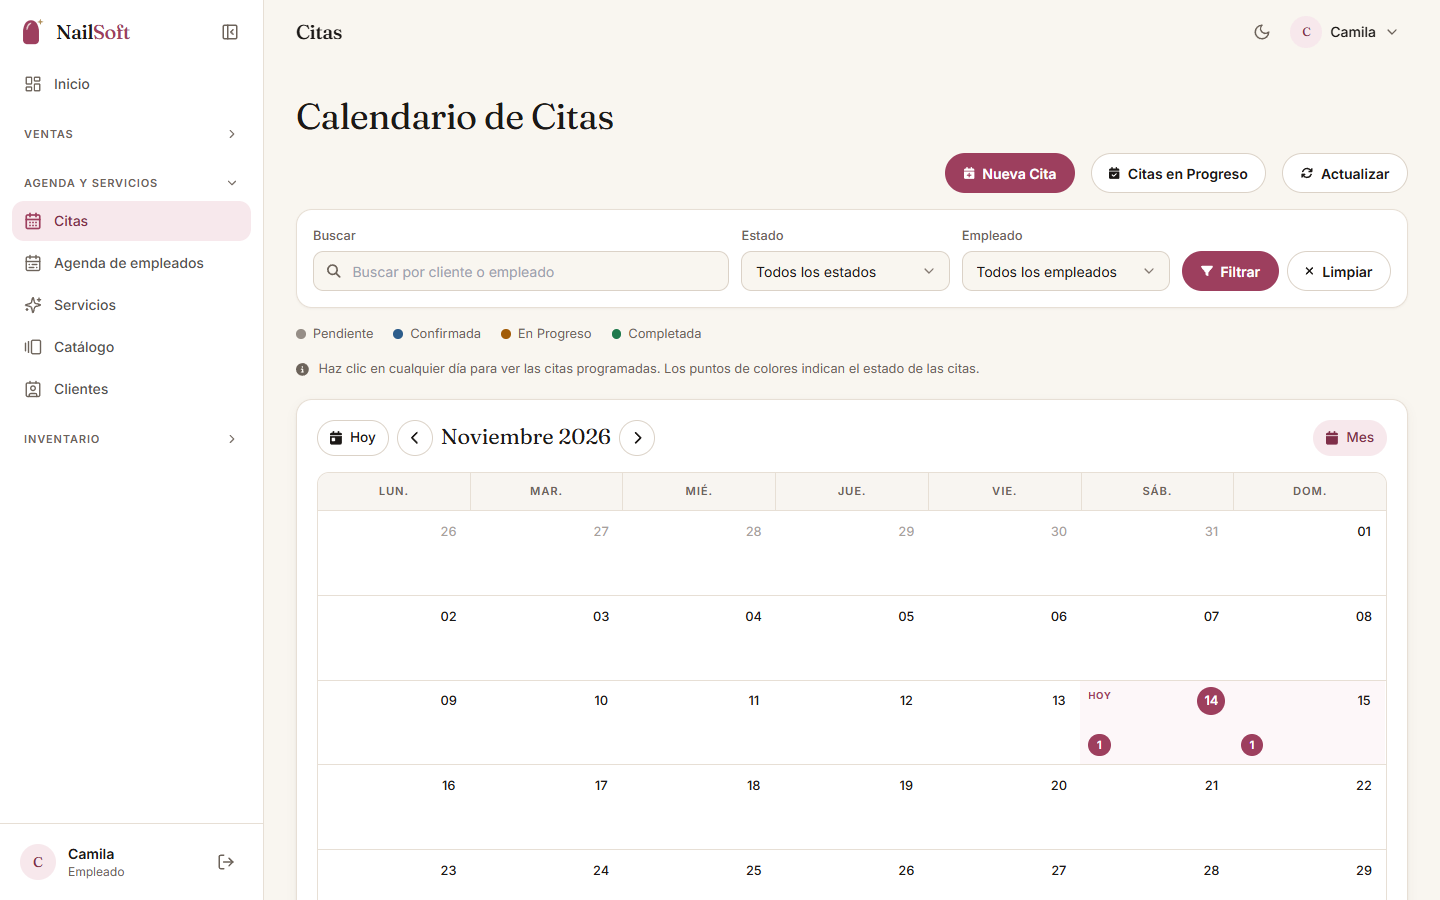
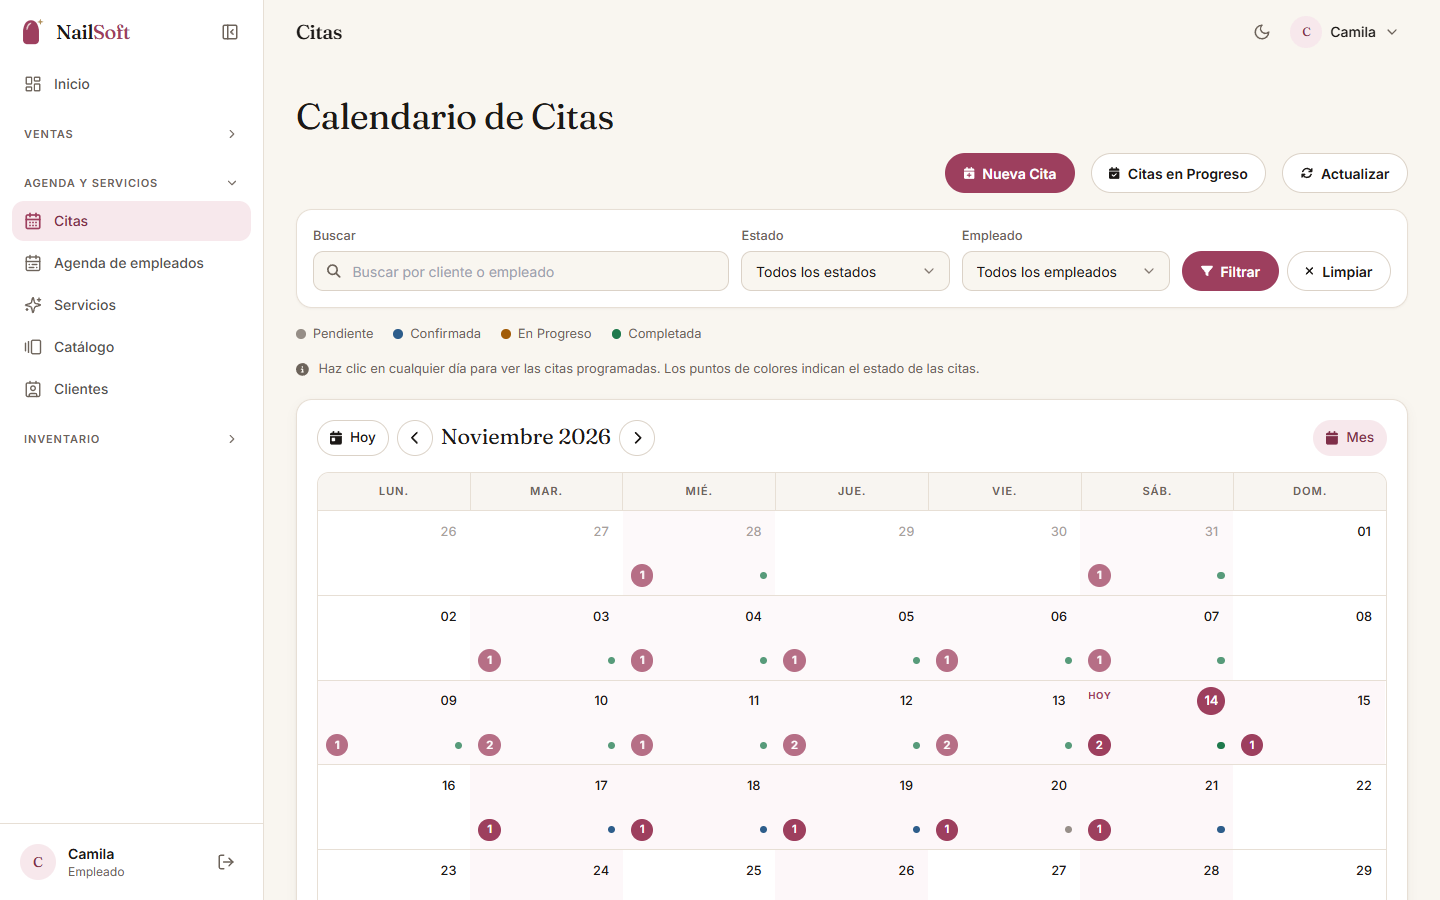
Web: Lighthouse en 100 de accesibilidad y SEO, y capturas con datos
- robots.txt real (Firebase devolvía el HTML de la página).
- Más contraste en los textos del pie de página.
- Los números decorativos de los pasos pasan a CSS (::before).
- README: resultados de Lighthouse y capturas del panel y del
  calendario con datos de demostración.

diff --git a/Frontend/src/components/Footer/Footer.jsx b/Frontend/src/components/Footer/Footer.jsx
@@ -88,7 +88,7 @@ const Footer = () => {
           </div>
 
           <nav aria-label="Explora">
-            <p className="text-xs font-semibold uppercase tracking-[0.14em] text-[#F3EEE8]/45">Explora</p>
+            <p className="text-xs font-semibold uppercase tracking-[0.14em] text-[#F3EEE8]/60">Explora</p>
             <ul className="mt-4 flex list-none flex-col gap-2.5 p-0">
               <EnlacePie to="/">Inicio</EnlacePie>
               {esCliente ? (
@@ -111,7 +111,7 @@ const Footer = () => {
           </nav>
 
           <div>
-            <p className="text-xs font-semibold uppercase tracking-[0.14em] text-[#F3EEE8]/45">Contacto</p>
+            <p className="text-xs font-semibold uppercase tracking-[0.14em] text-[#F3EEE8]/60">Contacto</p>
             <ul className="mt-4 flex list-none flex-col gap-2.5 p-0">
               <EnlaceExterno href={WHATSAPP_URL} icono={FaWhatsapp}>
                 WhatsApp
@@ -123,7 +123,7 @@ const Footer = () => {
           </div>
         </div>
 
-        <div className="flex flex-col gap-2 border-t border-white/10 py-6 text-xs text-[#F3EEE8]/45 sm:flex-row sm:justify-between">
+        <div className="flex flex-col gap-2 border-t border-white/10 py-6 text-xs text-[#F3EEE8]/60 sm:flex-row sm:justify-between">
           <p className="m-0">© 2025–{new Date().getFullYear()} NailSoft · Proyecto de portafolio, datos ficticios</p>
           <p className="m-0">
             Desarrollado por{" "}

diff --git a/Frontend/src/components/LandingI/Index.jsx b/Frontend/src/components/LandingI/Index.jsx
@@ -471,9 +471,12 @@ const Index = () => {
                         <span className="flex size-12 items-center justify-center rounded-full bg-primary text-primary-foreground shadow-soft">
                           <Icono className="size-5" aria-hidden="true" />
                         </span>
-                        <span className="font-display text-5xl text-muted-foreground/25" aria-hidden="true">
-                          0{i + 1}
-                        </span>
+                        {/* Número decorativo: va en CSS (::before) para que no cuente como texto del contenido */}
+                        <span
+                          data-numero={`0${i + 1}`}
+                          className="font-display text-5xl text-muted-foreground/25 before:content-[attr(data-numero)]"
+                          aria-hidden="true"
+                        />
                       </div>
                       <div>
                         <h3 className="font-display text-2xl">{paso.titulo}</h3>

diff --git a/README.md b/README.md
@@ -64,6 +64,7 @@ Entra en [nailsoft-spa.web.app](https://nailsoft-spa.web.app) con estas cuentas 
 - Imágenes en Cloudinary (el disco de Render se borra en cada despliegue).
 - Correo por cualquier servidor SMTP, por ejemplo Brevo.
 - Más de 230 pruebas automáticas y CI en GitHub Actions en cada cambio.
+- Lighthouse en la página de inicio: **100** en accesibilidad, buenas prácticas y SEO, y rendimiento de 97 en celular y 99 en escritorio.
 
 ## Galería
 
@@ -117,6 +118,15 @@ Entra en [nailsoft-spa.web.app](https://nailsoft-spa.web.app) con estas cuentas 
 | App | 26 (flutter_test) | `cd mobile && flutter test` |
 
 El [CI](.github/workflows/ci.yml) corre en cada push y pull request: pruebas del servidor; lint, pruebas y compilación de la web; y análisis y pruebas de la app. No necesita base de datos ni claves: los modelos y el correo están simulados.
+
+### Lighthouse
+
+Medido sobre la web publicada el 14 de noviembre de 2026 (Lighthouse 12):
+
+| Página de inicio | Rendimiento | Accesibilidad | Buenas prácticas | SEO |
+|---|---|---|---|---|
+| Celular | 97 | 100 | 100 | 100 |
+| Escritorio | 99 | 100 | 100 | 100 |
 
 ## Instalación local
 
